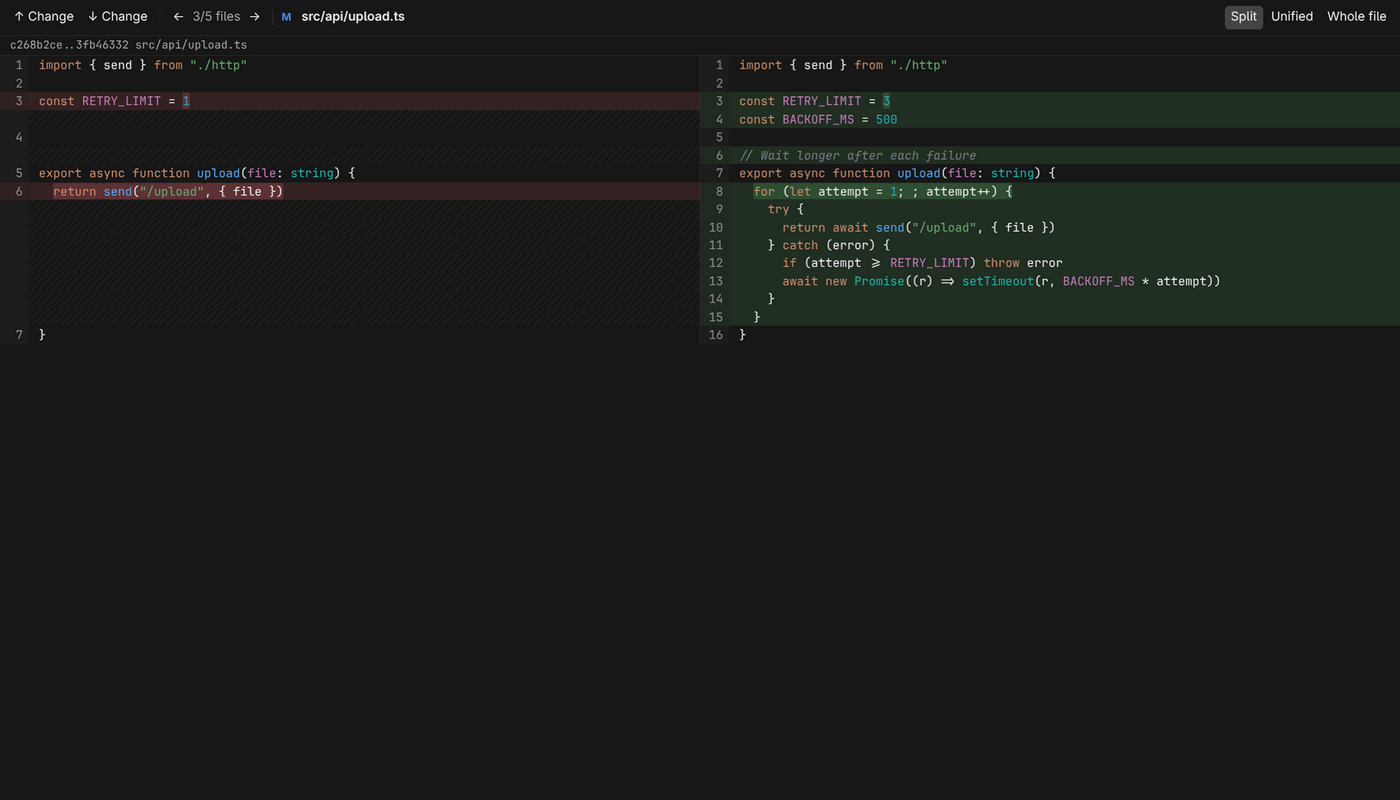
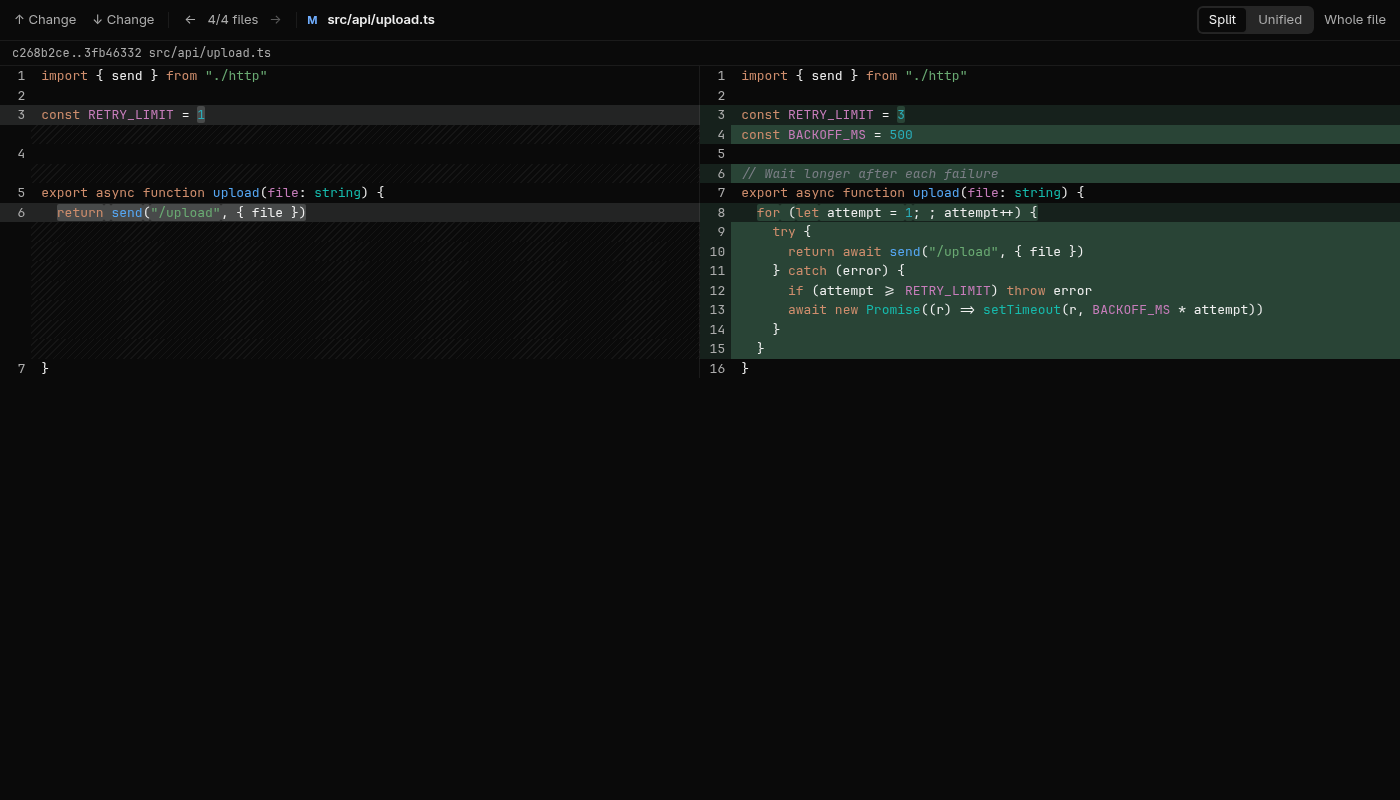
Show the Orca-like style in the README screenshots and describe it
New screenshots of the demo repository: the Diff tab as Orca draws it, the sidebar rendered from the same code with Orca's default dark tokens. The README lists what follows the Orca theme and what follows WebStorm; the design records the token rules, the selection and keyboard focus rules and how the screenshots are made.

Changed region(s): [[0.0, 0.0, 1.0, 0.4688], [0.86, 0.0, 1.0, 0.0625], [0.215, 0.0, 0.3071, 0.0312]]

diff --git a/docs/superpowers/specs/2026-11-09-orca-git-plugin-design.md b/docs/superpowers/specs/2026-11-09-orca-git-plugin-design.md
@@ -106,7 +106,7 @@
 
 - Раскладка, плотность строк, иконки-кнопки в тулбарах, деревья с шевронами — как в WebStorm (см. скриншот).
 - Язык интерфейса — язык Орки (решение пользователя): в плагине английский и русский каталоги, все строки и сообщения переводятся; ошибки самого git остаются на английском.
-- *Решение дизайна:* цвета и шрифты берутся из текущей темы Орки через её CSS-переменные `--orca-*`. Движок так уже делает, и это сохраняем, чтобы плагин не выбивался из Орки при смене темы.
+- *Решение дизайна:* цвета берутся из текущей темы Орки через её CSS-переменные `--orca-*`. Движок так уже делает, и это сохраняем, чтобы плагин не выбивался из Орки при смене темы. Шрифтов Орка фреймам не отдаёт — см. «Стиль „как Орка“» в итогах реализации.
 - Интерфейс остаётся HTML-страницей в изолированном фрейме (`ui: "html"`), а не панелью из компонентов Орки (согласовано с пользователем). Причины: custom editor (вкладка) бывает только HTML; у компонентов нет своей отрисовки (граф), меню по правому клику, мультивыбора в `Tree`, растягиваемых секций, а рендер ограничен 5000 узлами. Сайдбар на компонентах стал бы вторым, непохожим интерфейсом.
 
 ## Бэкап перед опасными операциями
@@ -166,7 +166,8 @@
 - **Вкладка «Diff» (задача 14c).** Что показывает вкладка, воркер хранит в памяти по корню репозитория: сайдбар отдаёт выделение и номер файла (`diff.open`), вкладка читает их при старте и по событию `diff.show` (`diff.state`). Поэтому вкладка, восстановленная после перезапуска Орки, показывает заглушку до следующего клика по файлу. Листание ← → во вкладке сообщается воркеру (`diff.index`): он запоминает номер файла (пересозданный фрейм вкладки откроется на нём) и шлёт `diff.current`, по которому сайдбар подсвечивает тот же файл, раскрывает его папку и прокручивает к нему, если файл ещё есть в его выделении. Новый `diff.open` при этом не отправляется. Якорь пишется только в рабочее пространство, чей top level равен корню репозитория сайдбара; если такого нет, сайдбар показывает ошибку и ничего не пишется. Якорь создаётся один раз (`wx`: не идёт по ссылкам и не заменяет файлы) и потом не переписывается; если под его именем уже лежит что-то другое (файл пользователя, ссылка, папка, якорь другого репозитория), вкладка не открывается, а `info/exclude` не трогается. Существующий файл проверяется без перехода по ссылкам и без ожидания на FIFO (`O_NOFOLLOW | O_NONBLOCK`, `fstat`, чтение не больше 4 KiB). Ошибка файловой системы при создании якоря показывается переведённым сообщением с её кодом; якорь, который не удалось дописать, удаляется, чтобы следующие клики не считали его чужим.
 - **Не больше 2000 файлов во вкладке.** Воркер принимает до 2000 файлов (проверка на границе вместе с путями, буквами статуса и хешами). Если выделение меняет больше файлов, сайдбар отправляет 2000 вокруг выбранного, и счётчик «i/N files» считает только их.
 - **Alt+↑/↓ в списке коммитов** больше не пропускаются мимо списка (раньше их забирал дифф в том же фрейме) и двигают выделение, как обычные стрелки.
-- **Скриншоты README.** Снимок сайдбара в запущенной Орке показывает активное рабочее пространство пользователя, поэтому колонка секций вырезана из прежних снимков демо-репозитория (тот же код и тот же тулбар ↻ ⇣) и поставлена справа от нового снимка вкладки «Diff» с тем же выделением: так Орка их и располагает, а каталогу нужны снимки не меньше 1280×800. Отдельный снимок вкладки «Diff» (`diff-dark.png`) — целиком новый.
+- **Скриншоты README.** Снимок сайдбара в запущенной Орке показывает активное рабочее пространство пользователя, поэтому сайдбар на снимках снят вне Орки: настоящие `app.ts` и `styles.css` в headless Chromium на записанных ответах воркера по демо-репозиторию, с переменными стандартной тёмной темы Орки (`.dark` из её CSS) и шрифтом, в который Орка разрешает `system-ui` (GTK). Он стоит справа от настоящего снимка вкладки «Diff» с тем же выделением: так Орка их и располагает, а каталогу нужны снимки не меньше 1280×800. Отдельный снимок `diff-dark.png` (side by side) снят тем же способом; тот же дифф в режиме unified совпал с настоящим снимком Орки по цветам и раскладке, отличается только хинтинг шрифта.
+- **Стиль „как Орка“ (задача 17, вариант А из `styling-mockup.html`).** Всё, что покрывают 20 переменных, которые Орка отдаёт фрейму (`--orca-background` … `--orca-radius`), — только через них: фон сайдбара `--orca-card` (у Орки это «карточки и панели»), фон вкладки «Diff» `--orca-background` (из него Орка выводит фон редактора), текст, рамки, поля ввода, кольцо фокуса, наведение и выделение (`--orca-accent`), меню и диалоги (`--orca-popover`), кнопки, скругления от `--orca-radius`. Выделение везде одинаковое (решение пользователя 2026-11-10): скруглённая заливка `--orca-accent` с текстом `--orca-accent-foreground`, никогда не жирный шрифт — в дереве веток (и ветка, по которой отфильтрован лог), в списке коммитов, в дереве файлов, в меню; в списке с фокусом заливка чуть сильнее (`--orca-accent` с 10 % `--orca-accent-foreground`), а в меню и диалогах на ступень сильнее везде, потому что `--orca-accent` у некоторых тем почти совпадает с `--orca-popover`. Жирным остались только заголовки секций и групп дерева, автор-«я» и путь файла во вкладке; HEAD в списке коммитов отмечен кольцом в графе и значком со звездой, без жирного. Фокус клавиатуры (решение пользователя 2026-11-10) — на строке, а не рамкой вокруг секции или списка: в списке коммитов строка, от которой ходят стрелки (класс `cursor`), в дереве файлов и списке описаний — сама строка; невыделенная строка с фокусом получает тонкое кольцо `--orca-ring` внутри строки, выделенная — более сильную заливку. Поля ввода и кнопки сохраняют кольцо фокуса `--orca-ring`. Опасная кнопка — белый текст на `--orca-destructive`, в тёмной теме 60 %, как у Орки; `--orca-destructive-foreground` не используется. Чего в переменных нет, взято из WebStorm 2026.2 (Islands Dark / Islands Light): цвета статусов файлов, фон добавленных и удалённых строк и изменённых слов, цвета веток графа (генератор цветов лога с насыщенностью и яркостью из темы), цвета иконок веток и тегов, цвета баннеров успеха и предупреждения. Шрифт интерфейса — системный (`system-ui`), кода — `JetBrainsMono Nerd Font`, затем `JetBrains Mono`; CSP фрейма не даёт загрузить свои шрифты. Размер шрифта задаётся на `body`, а не на `html`: `--orca-radius` приходит в `rem`.
 - **Бэкап (задача 15).** Перед окном сброса воркер проверяет рабочее дерево (запрос `reset.check`, только чтение): есть ли незакоммиченные изменения в отслеживаемых файлах и какие неотслеживаемые файлы, включая игнорируемые, перезапишет `reset --hard`: лежащие по пути, который цель отслеживает, а HEAD нет (или внутри папки по такому пути), такие же пути внутри вложенного репозитория (папка со своим `.git`: git туда не заглядывает, поэтому воркер проверяет их на диске через `lstat`, не переходя по ссылкам), и файлы с именем папки, которая нужна цели (`build` против `build/x`). На ветке без коммитов новыми считаются все файлы цели. Пути передаются git порциями не длиннее 8000 символов: в Windows вся командная строка ограничена 32 767 символами. Файл, созданный после открытия окна, в список не попадёт. Галочка «Also save uncommitted changes to the stash» показывается при Hard, только если изменения есть. Вопрос о жёстком сбросе задаётся всегда: с галочкой он говорит, что изменения отслеживаемых файлов уйдут в stash, а неотслеживаемые файлы, которые перезапишет сброс, перечислены и в окне сброса, и в этом вопросе (первые 10 и «и ещё N»); что stash их не сохраняет, сказано, только когда stash предлагается. Если `git stash store` не удался уже после создания ссылки бэкапа, отказ называет эту ссылку. Stash воркер принимает только вместе с `reset --hard`. Сообщение stash английское (`Git plugin backup before reset --hard (<ветка>)`, как в плане): это запись в репозитории, а не строка интерфейса.
 - **Где спрашивается бэкап.** Fixup, drop и «rebase текущей на эту» раньше без запушенных коммитов шли без окна; теперь, пока предложение бэкапа включено, они показывают подтверждение с ним (с выключенной настройкой — как раньше). У удаления неслитой ветки предложение стоит во втором окне («слита не полностью, всё равно удалить?»), то есть именно перед `-D`. Выбор «ветка / тег» запоминается в `backupKind` сразу при переключении, даже если окно потом отменили.
 - **Проверка имени бэкапа.** Пустое и занятое имя (среди веток и тегов) окно ловит само; по кнопке оно спрашивает воркер (запрос `backup.check`, только чтение) и остаётся открытым с причиной, если git имя не примет: `git check-ref-format`, имя под `refs/`, длиннее 200 байт (ссылки — файлы, а имя файла не длиннее 255 байт), такая ветка (для тега — такой тег) уже есть, или имя конфликтует с папкой существующей ссылки (`backup/main` и `backup/main/x`). Те же проверки воркер повторяет перед созданием бэкапа. Пока воркер проверяет имя, поля и кнопка подтверждения окна выключены и видно «Checking…»; Cancel и Esc работают.

diff --git a/README.md b/README.md
@@ -48,6 +48,12 @@ editor tab, and a right-click menu to rewrite history. The interface follows Orc
   between the files of the selection it was opened from with ← / → (keys or header buttons) or Alt+↑ /
   Alt+↓ (counter "3/5 files"); the panel's Files section highlights the file the tab shows. Merge
   commits are compared with their first parent.
+- **Looks like Orca**: whatever Orca passes to plugins comes from the current Orca theme, light or
+  dark: backgrounds, text, borders, inputs and the focus ring, selection, menus, dialogs, buttons and
+  corner radius (its 20 `--orca-*` tokens). What Orca does not pass follows WebStorm (Islands Dark and
+  Islands Light): file status colors, added and removed lines and words in the diff, graph lanes and
+  ref icons. The interface uses the system font; code uses JetBrainsMono Nerd Font or JetBrains Mono
+  when installed.
 - **Multi-select**: click, Ctrl/⌘-click, Shift-click, arrows, Page Up/Down, Home/End, Ctrl+A.
 - **Right-click menu** with icons (or Shift+F10):
   - Copy Revision Number (Ctrl+C), Cherry-Pick, Create Patch… (`git format-patch` of the selection,
